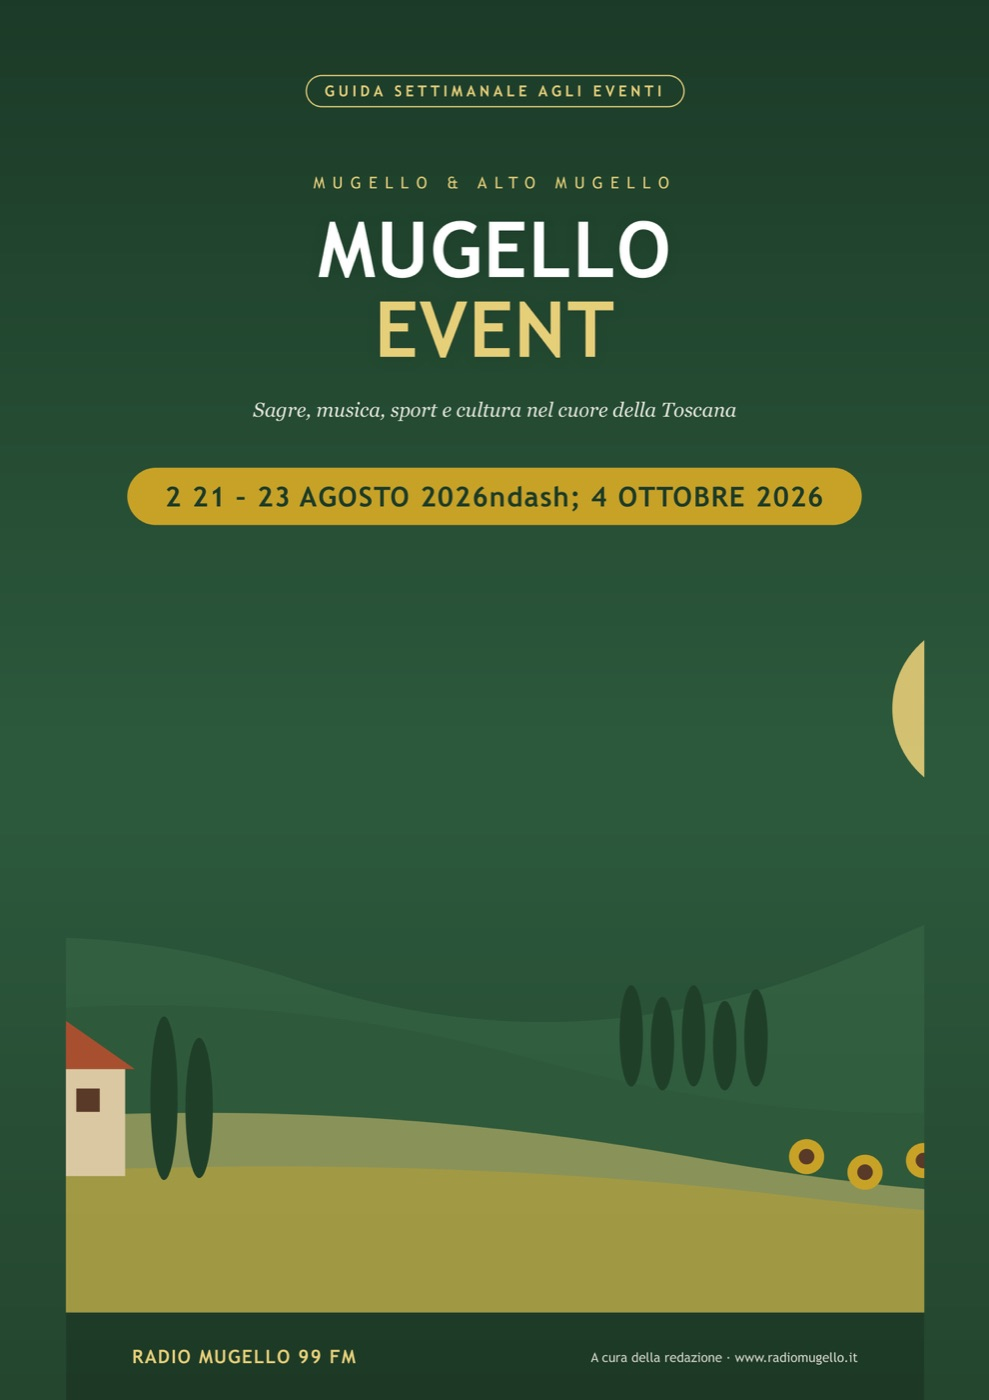
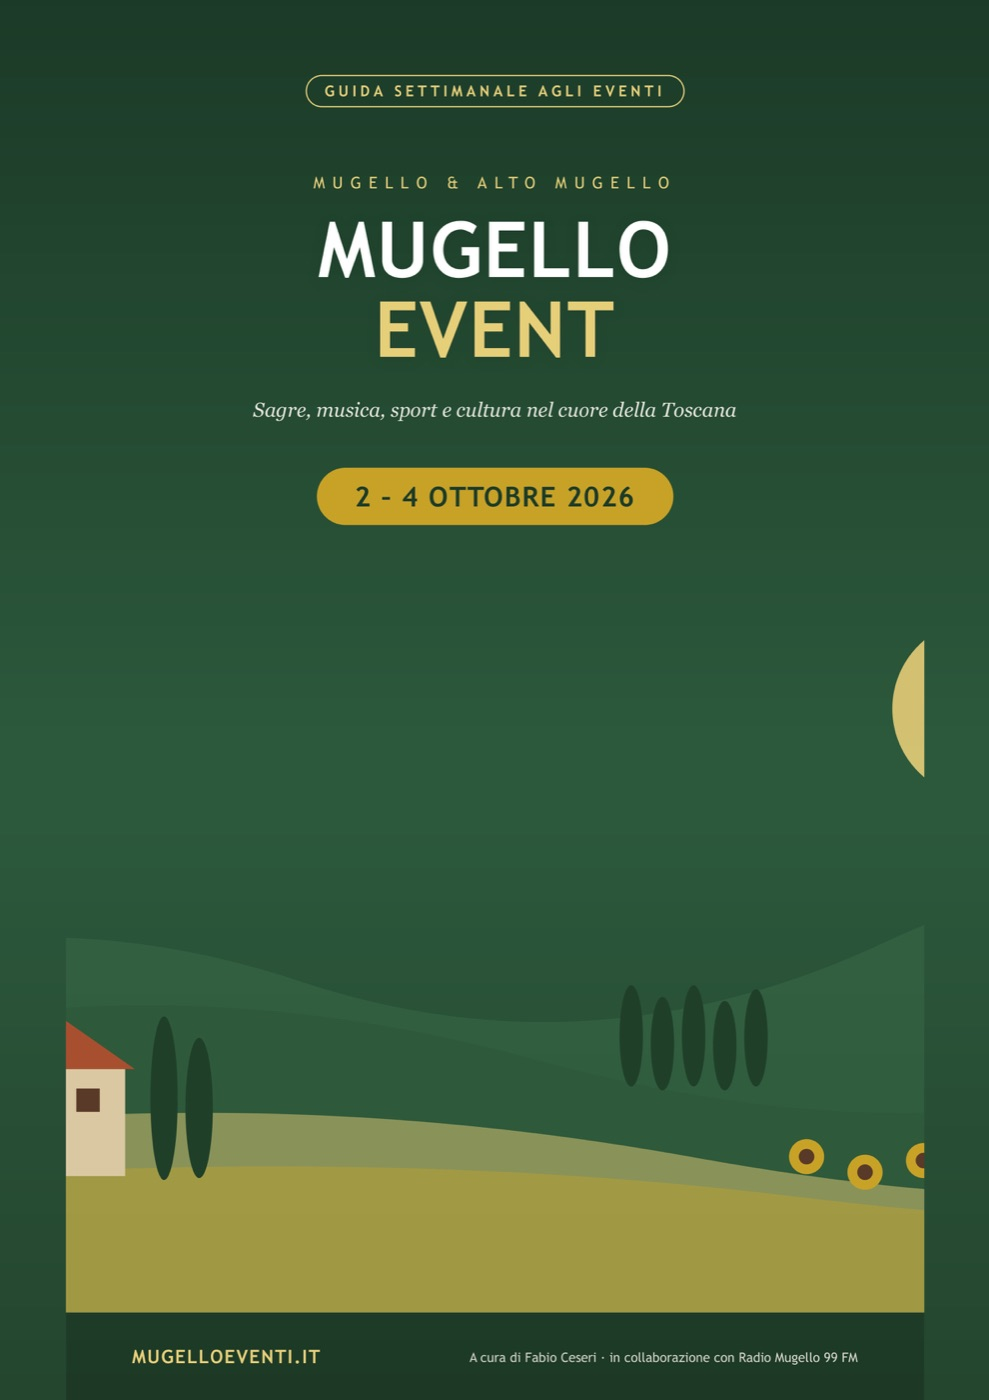
Edizione 07/10/2026

Changed region(s): [[0.1213, 0.3071, 0.8797, 0.3993], [0.4853, 0.9521, 0.8493, 0.9829], [0.1213, 0.9521, 0.364, 0.9829]]

diff --git a/pubblica-evento.html b/pubblica-evento.html
@@ -1,0 +1,103 @@
+<!doctype html>
+<html lang="it">
+<head>
+<meta charset="utf-8">
+<meta name="viewport" content="width=device-width, initial-scale=1">
+<title>Pubblica il tuo evento – Mugello Eventi</title>
+<meta name="description" content="Organizzi un evento in Mugello o Alto Mugello? Pubblica un articolo su mugelloeventi.it: 50 euro ad articolo.">
+<meta property="og:title" content="Pubblica il tuo evento su Mugello Eventi">
+<meta property="og:description" content="Un articolo dedicato al tuo evento su mugelloeventi.it: 50 euro ad articolo.">
+<style>
+  :root { --verde: #1f4d2b; --oro: #c9a227; --carta: #f6f3ea; --testo: #222; --bianco: #fff; --bordo: #ddd6c3; --grigio: #666; }
+  @media (prefers-color-scheme: dark) { :root { --carta: #16130d; --testo: #ece6d6; --bianco: #221e16; --bordo: #3a3426; --grigio: #b3ab98; } }
+  * { box-sizing: border-box; }
+  body { margin: 0; font: 17px/1.6 -apple-system, "Segoe UI", Helvetica, Arial, sans-serif; background: var(--carta); color: var(--testo); }
+  header { background: var(--verde); color: #fff; text-align: center; padding: 24px 16px 20px; border-bottom: 4px solid var(--oro); }
+  header a.t { color: #fff; text-decoration: none; font: 700 2rem Georgia, serif; }
+  header nav { margin-top: 12px; display: flex; gap: 10px; justify-content: center; flex-wrap: wrap; }
+  header nav a { color: #fff; text-decoration: none; padding: 6px 14px; border: 1px solid rgba(255,255,255,.45); border-radius: 20px; font-size: .92rem; }
+  main { max-width: 760px; margin: 0 auto; padding: 26px 16px 50px; }
+  h1 { font: 700 1.8rem/1.25 Georgia, serif; color: var(--verde); margin: 0 0 8px; }
+  @media (prefers-color-scheme: dark) { h1, h2 { color: var(--oro) !important; } }
+  h2 { color: var(--verde); font-size: 1.2rem; margin: 30px 0 8px; }
+  .prezzo { display: flex; align-items: baseline; gap: 12px; background: var(--bianco); border: 1px solid var(--bordo); border-left: 6px solid var(--oro); border-radius: 10px; padding: 16px 18px; margin: 20px 0; }
+  .prezzo b { font: 700 2.4rem Georgia, serif; color: var(--verde); }
+  @media (prefers-color-scheme: dark) { .prezzo b { color: var(--oro); } }
+  ol.passi { padding-left: 22px; } ol.passi li { margin: 6px 0; }
+  form { background: var(--bianco); border: 1px solid var(--bordo); border-radius: 10px; padding: 18px; }
+  label { display: block; font-weight: 600; margin: 14px 0 5px; } label:first-child { margin-top: 0; }
+  .aiuto { font-weight: 400; color: var(--grigio); font-size: .85rem; }
+  input, textarea { width: 100%; font: inherit; padding: 10px 12px; border: 1px solid var(--bordo); border-radius: 8px; background: var(--carta); color: var(--testo); }
+  textarea { min-height: 150px; }
+  .due { display: grid; grid-template-columns: 1fr 1fr; gap: 12px; }
+  @media (max-width: 560px) { .due { grid-template-columns: 1fr; } }
+  button { margin-top: 18px; font: 600 1rem -apple-system, Helvetica, sans-serif; background: var(--oro); color: #1f1a05; border: 0; border-radius: 8px; padding: 12px 20px; cursor: pointer; }
+  .piccolo { font-size: .88rem; color: var(--grigio); }
+  footer { text-align: center; font-size: .85rem; color: var(--grigio); padding: 0 16px 32px; }
+  footer a { color: inherit; }
+</style>
+</head>
+<body>
+<header>
+  <a class="t" href="./">Mugello Event</a>
+  <nav><a href="./">La guida</a><a href="notizie/">Notizie</a><a href="pubblica-evento.html">Pubblica il tuo evento</a></nav>
+</header>
+<main>
+  <h1>Pubblica il tuo evento</h1>
+  <p>Organizzi una sagra, un concerto, una mostra, una gara o una festa in Mugello o Alto Mugello? Possiamo dedicargli un articolo su mugelloeventi.it.</p>
+
+  <div class="prezzo"><b>50 €</b><span>ad articolo</span></div>
+
+  <h2>Cosa comprende</h2>
+  <ul>
+    <li>Un articolo dedicato al tuo evento nella sezione <a href="notizie/">Notizie</a>, scritto a partire dalle informazioni che ci mandi.</li>
+    <li>Foto o locandina, date, orari, luogo e i tuoi contatti o il link al tuo sito.</li>
+    <li>Un indirizzo proprio, da condividere su WhatsApp e Facebook con l'anteprima.</li>
+  </ul>
+  <p class="piccolo">Come prevede la legge per i contenuti a pagamento, l'articolo porta la dicitura "Contenuto sponsorizzato".</p>
+
+  <h2>Come funziona</h2>
+  <ol class="passi">
+    <li>Compila il modulo qui sotto: si apre un'email già pronta, la invii e allega foto o locandina.</li>
+    <li>Ti rispondiamo per email: se l'evento va bene ti mandiamo la conferma e il link per pagare con PayPal.</li>
+    <li>Dopo il pagamento l'articolo viene pubblicato. Ricevi una ricevuta per prestazione occasionale.</li>
+  </ol>
+  <p class="piccolo">Non si paga niente prima della conferma. Pubblichiamo solo eventi che si svolgono in Mugello, Alto Mugello e Val di Sieve, con informazioni verificabili.</p>
+
+  <h2>Richiedi la pubblicazione</h2>
+  <form id="f">
+    <label for="ev">Nome dell'evento</label><input id="ev" required>
+    <div class="due">
+      <div><label for="qd">Date e orari</label><input id="qd" placeholder="es. sabato 17 ottobre, dalle 15 alle 23" required></div>
+      <div><label for="dv">Luogo</label><input id="dv" placeholder="paese, indirizzo" required></div>
+    </div>
+    <label for="ds">Descrizione <span class="aiuto">(programma, prezzi, prenotazioni, cosa c'è da sapere)</span></label><textarea id="ds" required></textarea>
+    <label for="lk">Sito o pagina dell'evento <span class="aiuto">(facoltativo)</span></label><input id="lk" type="url" placeholder="https://">
+    <div class="due">
+      <div><label for="nm">Chi organizza</label><input id="nm" placeholder="associazione, Pro Loco, locale…" required></div>
+      <div><label for="rf">Nome e cognome di chi scrive</label><input id="rf" required></div>
+    </div>
+    <div class="due">
+      <div><label for="tl">Telefono <span class="aiuto">(facoltativo)</span></label><input id="tl" type="tel"></div>
+      <div><label for="cf">Dati per la ricevuta <span class="aiuto">(nome o ragione sociale, codice fiscale)</span></label><input id="cf"></div>
+    </div>
+    <button type="submit">Prepara l'email</button>
+    <p class="piccolo">Il modulo non invia niente da solo: apre il tuo programma di posta con il testo già scritto, verso <b>ceseri@gmail.com</b>. Se non si apre, scrivi direttamente a questo indirizzo. I dati servono solo per l'articolo e la ricevuta.</p>
+  </form>
+</main>
+<footer>Mugello Eventi · a cura di Fabio Ceseri, in collaborazione con <a href="https://www.radiomugello.it/">Radio Mugello</a></footer>
+<script>
+document.getElementById('f').addEventListener('submit', function (e) {
+  e.preventDefault();
+  var v = function (id) { return document.getElementById(id).value.trim(); };
+  var corpo = 'Richiesta di pubblicazione su mugelloeventi.it (50 euro ad articolo)\n\n' +
+    'Evento: ' + v('ev') + '\nDate e orari: ' + v('qd') + '\nLuogo: ' + v('dv') + '\n\nDescrizione:\n' + v('ds') +
+    '\n\nSito o pagina: ' + (v('lk') || '-') + '\nOrganizza: ' + v('nm') + '\nReferente: ' + v('rf') +
+    '\nTelefono: ' + (v('tl') || '-') + '\nDati per la ricevuta: ' + (v('cf') || '-') +
+    '\n\n(Allego foto o locandina)';
+  location.href = 'mailto:ceseri@gmail.com?subject=' + encodeURIComponent('Pubblica evento: ' + v('ev')) +
+    '&body=' + encodeURIComponent(corpo);
+});
+</script>
+</body>
+</html>

diff --git a/notizie/index.html b/notizie/index.html
@@ -1,0 +1,69 @@
+<!doctype html>
+<html lang="it">
+<head>
+<meta charset="utf-8">
+<meta name="viewport" content="width=device-width, initial-scale=1">
+<title>Notizie – Mugello Eventi</title>
+<meta name="description" content="Notizie ed eventi in Mugello e Alto Mugello">
+<meta property="og:type" content="article">
+<meta property="og:url" content="https://mugelloeventi.it/notizie/">
+<meta property="og:title" content="Notizie – Mugello Eventi">
+<meta property="og:description" content="Notizie ed eventi in Mugello e Alto Mugello">
+<meta property="og:image" content="https://mugelloeventi.it/og.jpg">
+<meta name="twitter:card" content="summary_large_image">
+<link rel="alternate" type="application/rss+xml" title="Mugello Eventi – Notizie" href="https://mugelloeventi.it/notizie/feed.xml">
+<style>
+:root { --c: #1f4d2b; --a: #c9a227; --testo: #1f2328; --grigio: #5f6670; --fondo: #f6f7f8; --bianco: #fff; --bordo: #e2e5e9; }
+@media (prefers-color-scheme: dark) { :root { --testo: #e8eaed; --grigio: #a5abb3; --fondo: #15181c; --bianco: #1e2227; --bordo: #30353c; } }
+* { box-sizing: border-box; }
+body { margin: 0; font: 17px/1.6 -apple-system, "Segoe UI", Roboto, Helvetica, Arial, sans-serif; background: var(--fondo); color: var(--testo); }
+header.sito { background: var(--c); color: #fff; border-bottom: 4px solid var(--a); }
+header.sito .in { max-width: 820px; margin: 0 auto; padding: 14px 16px; display: flex; align-items: center; gap: 12px; flex-wrap: wrap; }
+header.sito a.marchio { color: #fff; text-decoration: none; font-weight: 700; font-size: 1.2rem; }
+header.sito nav { margin-left: auto; display: flex; gap: 14px; flex-wrap: wrap; }
+header.sito nav a { color: #fff; text-decoration: none; opacity: .9; font-size: .95rem; }
+header.sito nav a:hover { opacity: 1; text-decoration: underline; }
+main { max-width: 820px; margin: 0 auto; padding: 24px 16px 48px; }
+h1 { font-size: 1.9rem; line-height: 1.2; margin: 6px 0 10px; }
+.motto { color: var(--grigio); margin: 0 0 24px; }
+.scheda { display: grid; grid-template-columns: 200px 1fr; gap: 16px; background: var(--bianco); border: 1px solid var(--bordo);
+  border-radius: 10px; padding: 14px; margin-bottom: 14px; text-decoration: none; color: inherit; }
+.scheda:hover { border-color: var(--c); }
+.scheda img { width: 100%; height: 130px; object-fit: cover; border-radius: 6px; display: block; }
+.scheda.senza-foto { grid-template-columns: 1fr; }
+.scheda h2 { font-size: 1.2rem; margin: 2px 0 6px; line-height: 1.3; }
+.scheda p { margin: 0; color: var(--grigio); font-size: .95rem; }
+.meta { font-size: .85rem; color: var(--grigio); }
+.sponsor { display: inline-block; background: var(--a); color: #1f2328; font-size: .72rem; font-weight: 700; letter-spacing: .4px;
+  text-transform: uppercase; border-radius: 4px; padding: 2px 7px; margin-right: 6px; vertical-align: 2px; }
+article .foto { margin: 18px 0; }
+article .foto img { width: 100%; height: auto; border-radius: 8px; display: block; }
+article .foto figcaption { font-size: .85rem; color: var(--grigio); margin-top: 6px; }
+article .sommario { font-size: 1.15rem; color: var(--grigio); margin: 0 0 10px; }
+article h2 { font-size: 1.25rem; margin: 28px 0 6px; }
+article a { color: var(--c); }
+@media (prefers-color-scheme: dark) { article a { color: var(--a); } }
+.fonte { border-top: 1px solid var(--bordo); margin-top: 28px; padding-top: 12px; font-size: .9rem; color: var(--grigio); }
+.nota-sponsor { background: var(--bianco); border: 1px solid var(--bordo); border-left: 4px solid var(--a); padding: 10px 14px; border-radius: 6px; font-size: .9rem; margin: 0 0 18px; }
+.condividi { display: flex; gap: 10px; flex-wrap: wrap; margin-top: 22px; }
+.condividi a, .condividi button { font: inherit; font-size: .9rem; background: var(--bianco); color: var(--testo); border: 1px solid var(--bordo);
+  border-radius: 8px; padding: 8px 14px; text-decoration: none; cursor: pointer; }
+.vuoto { background: var(--bianco); border: 1px dashed var(--bordo); border-radius: 10px; padding: 28px; text-align: center; color: var(--grigio); }
+footer { text-align: center; font-size: .85rem; color: var(--grigio); padding: 0 16px 36px; }
+footer a { color: inherit; }
+@media (max-width: 600px) { .scheda { grid-template-columns: 1fr; } .scheda img { height: 180px; } h1 { font-size: 1.55rem; } }
+</style>
+</head>
+<body>
+<header class="sito"><div class="in">
+  <a class="marchio" href="../">Mugello Eventi</a>
+  <nav><a href="../">La guida</a><a href="../notizie/">Notizie</a><a href="../pubblica-evento.html">Pubblica il tuo evento</a></nav>
+</div></header>
+<main>
+<h1>Notizie</h1>
+<p class="motto">Notizie ed eventi in Mugello e Alto Mugello</p>
+<div class="vuoto">Le prime notizie arrivano presto.</div>
+</main>
+<footer>Mugello Eventi · notizie a cura di Fabio Ceseri · <a href="../notizie/feed.xml">RSS</a></footer>
+</body>
+</html>

diff --git a/index.html b/index.html
@@ -4,9 +4,9 @@
 <meta charset="utf-8">
 <meta name="viewport" content="width=device-width, initial-scale=1">
 <title>Mugello Event</title>
-<meta name="description" content="Mugello Event: la guida di Radio Mugello agli eventi del weekend in Mugello e Alto Mugello.">
+<meta name="description" content="Mugello Event: la guida agli eventi del weekend in Mugello e Alto Mugello, in collaborazione con Radio Mugello.">
 <meta property="og:title" content="Mugello Event – weekend 2–4 ottobre 2026">
-<meta property="og:description" content="La guida di Radio Mugello agli eventi del weekend in Mugello e Alto Mugello.">
+<meta property="og:description" content="La guida agli eventi del weekend in Mugello e Alto Mugello, in collaborazione con Radio Mugello.">
 <meta property="og:image" content="https://mugelloeventi.it/img/Mugello_Event_2-4ott2026_pag1_copertina.jpg">
 <style>
   :root { --verde: #1f4d2b; --oro: #c9a227; --carta: #f6f3ea; --testo: #222; }
@@ -25,12 +25,24 @@
   h3 { color: var(--verde); margin: 40px 0 8px; text-align: center; }
   footer { text-align: center; font-size: .85rem; color: #666; padding: 0 16px 32px; }
   footer a { color: var(--verde); }
+  header nav { margin-top: 14px; display: flex; gap: 10px; justify-content: center; flex-wrap: wrap; }
+  header nav a { color: #fff; text-decoration: none; padding: 6px 14px; border: 1px solid rgba(255,255,255,.45); border-radius: 20px; font-family: -apple-system, Helvetica, Arial, sans-serif; font-size: .92rem; }
+  header nav a.cta { background: var(--oro); border-color: var(--oro); color: #1f1a05; font-weight: 600; }
+  .notizie { margin: 36px 0 8px; }
+  .notizie a.n { display: grid; grid-template-columns: 120px 1fr; gap: 12px; background: #fff; border-radius: 8px; padding: 10px; margin: 10px 0; text-decoration: none; color: var(--testo); box-shadow: 0 1px 4px rgba(0,0,0,.08); }
+  .notizie a.n.nf { grid-template-columns: 1fr; }
+  .notizie img { width: 100%; height: 80px; object-fit: cover; border-radius: 6px; }
+  .notizie b { display: block; color: var(--verde); }
+  .notizie small { color: #666; }
+  .notizie .tutte { display: block; text-align: center; color: var(--verde); margin-top: 8px; }
+  .sp { background: var(--oro); color: #1f1a05; font: 700 .68rem -apple-system, Helvetica, sans-serif; text-transform: uppercase; padding: 1px 6px; border-radius: 3px; margin-right: 6px; }
 </style>
 </head>
 <body>
 <header>
   <h1>Mugello Event</h1>
-  <p>La guida di Radio Mugello agli eventi del weekend in Mugello e Alto Mugello</p>
+  <p>La guida agli eventi del weekend in Mugello e Alto Mugello</p>
+  <nav><a href="./">La guida</a><a href="notizie/">Notizie</a><a href="pubblica-evento.html" class="cta">Pubblica il tuo evento</a></nav>
 </header>
 <main>
   <h2>Weekend 2–4 ottobre 2026</h2>
@@ -41,6 +53,7 @@
 <a href="img/Mugello_Event_2-4ott2026_pag4_giorno_per_giorno_dom.jpg" target="_blank" rel="noopener"><img src="img/Mugello_Event_2-4ott2026_pag4_giorno_per_giorno_dom.jpg" alt="Mugello Event 2–4 ottobre 2026, pagina 4: giorno per giorno dom" loading="lazy"></a>
 <a href="img/Mugello_Event_2-4ott2026_pag5_info_e_crediti.jpg" target="_blank" rel="noopener"><img src="img/Mugello_Event_2-4ott2026_pag5_info_e_crediti.jpg" alt="Mugello Event 2–4 ottobre 2026, pagina 5: info e crediti" loading="lazy"></a>
   </div>
+  
   <h3>Edizioni precedenti</h3>
 <details><summary>Weekend 25–27 settembre 2026</summary><div class="pagine"><a href="img/Mugello_Event_25-27set2026_pag1_copertina.jpg" target="_blank" rel="noopener"><img src="img/Mugello_Event_25-27set2026_pag1_copertina.jpg" alt="Mugello Event 25–27 settembre 2026, pagina 1: copertina" loading="lazy"></a>
 <a href="img/Mugello_Event_25-27set2026_pag2_in_evidenza.jpg" target="_blank" rel="noopener"><img src="img/Mugello_Event_25-27set2026_pag2_in_evidenza.jpg" alt="Mugello Event 25–27 settembre 2026, pagina 2: in evidenza" loading="lazy"></a>
@@ -73,7 +86,7 @@
 <a href="img/Mugello_Event_21-23ago2026_pag4_giorno_per_giorno_dom.jpg" target="_blank" rel="noopener"><img src="img/Mugello_Event_21-23ago2026_pag4_giorno_per_giorno_dom.jpg" alt="Mugello Event 21–23 agosto 2026, pagina 4: giorno per giorno dom" loading="lazy"></a>
 <a href="img/Mugello_Event_21-23ago2026_pag5_info_e_crediti.jpg" target="_blank" rel="noopener"><img src="img/Mugello_Event_21-23ago2026_pag5_info_e_crediti.jpg" alt="Mugello Event 21–23 agosto 2026, pagina 5: info e crediti" loading="lazy"></a></div></details>
 </main>
-<footer>A cura di Radio Mugello · <a href="https://www.radiomugello.it/">radiomugello.it</a><br>
+<footer>A cura di Fabio Ceseri, in collaborazione con <a href="https://www.radiomugello.it/">Radio Mugello</a> · <a href="pubblica-evento.html">Pubblica il tuo evento</a><br>
 Date e orari possono cambiare: prima di partire controlla sempre con gli organizzatori.</footer>
 </body>
 </html>
